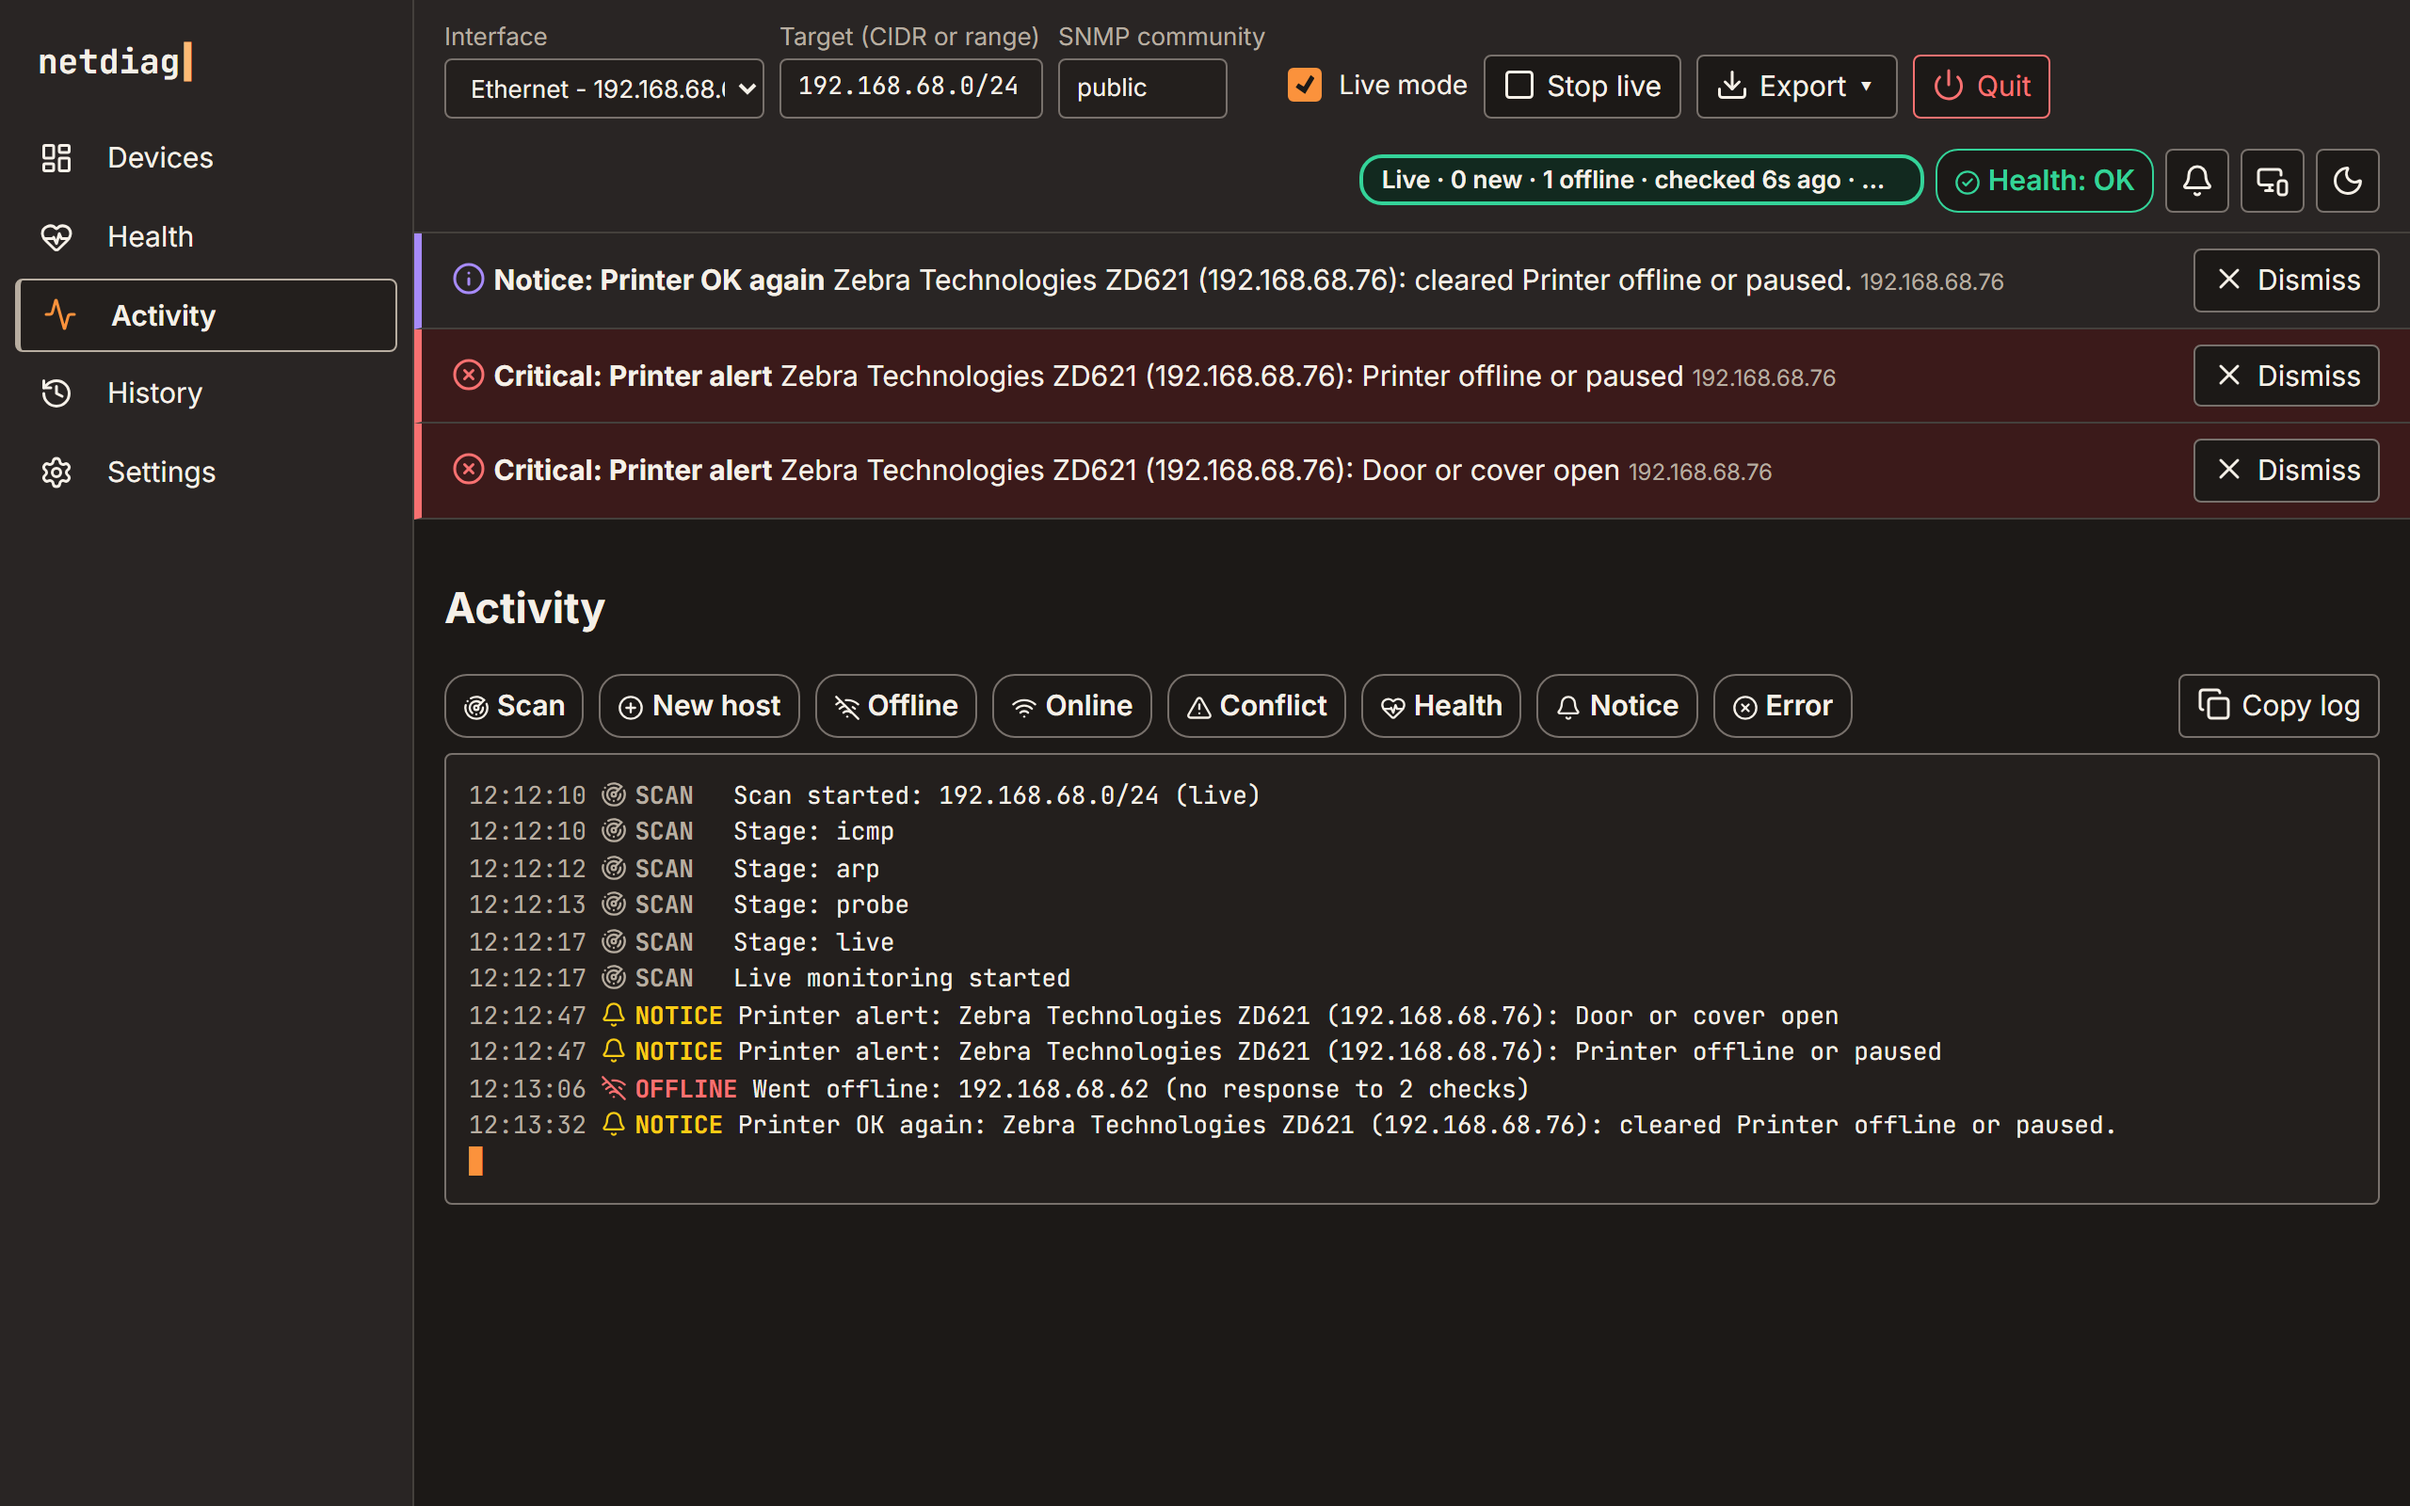
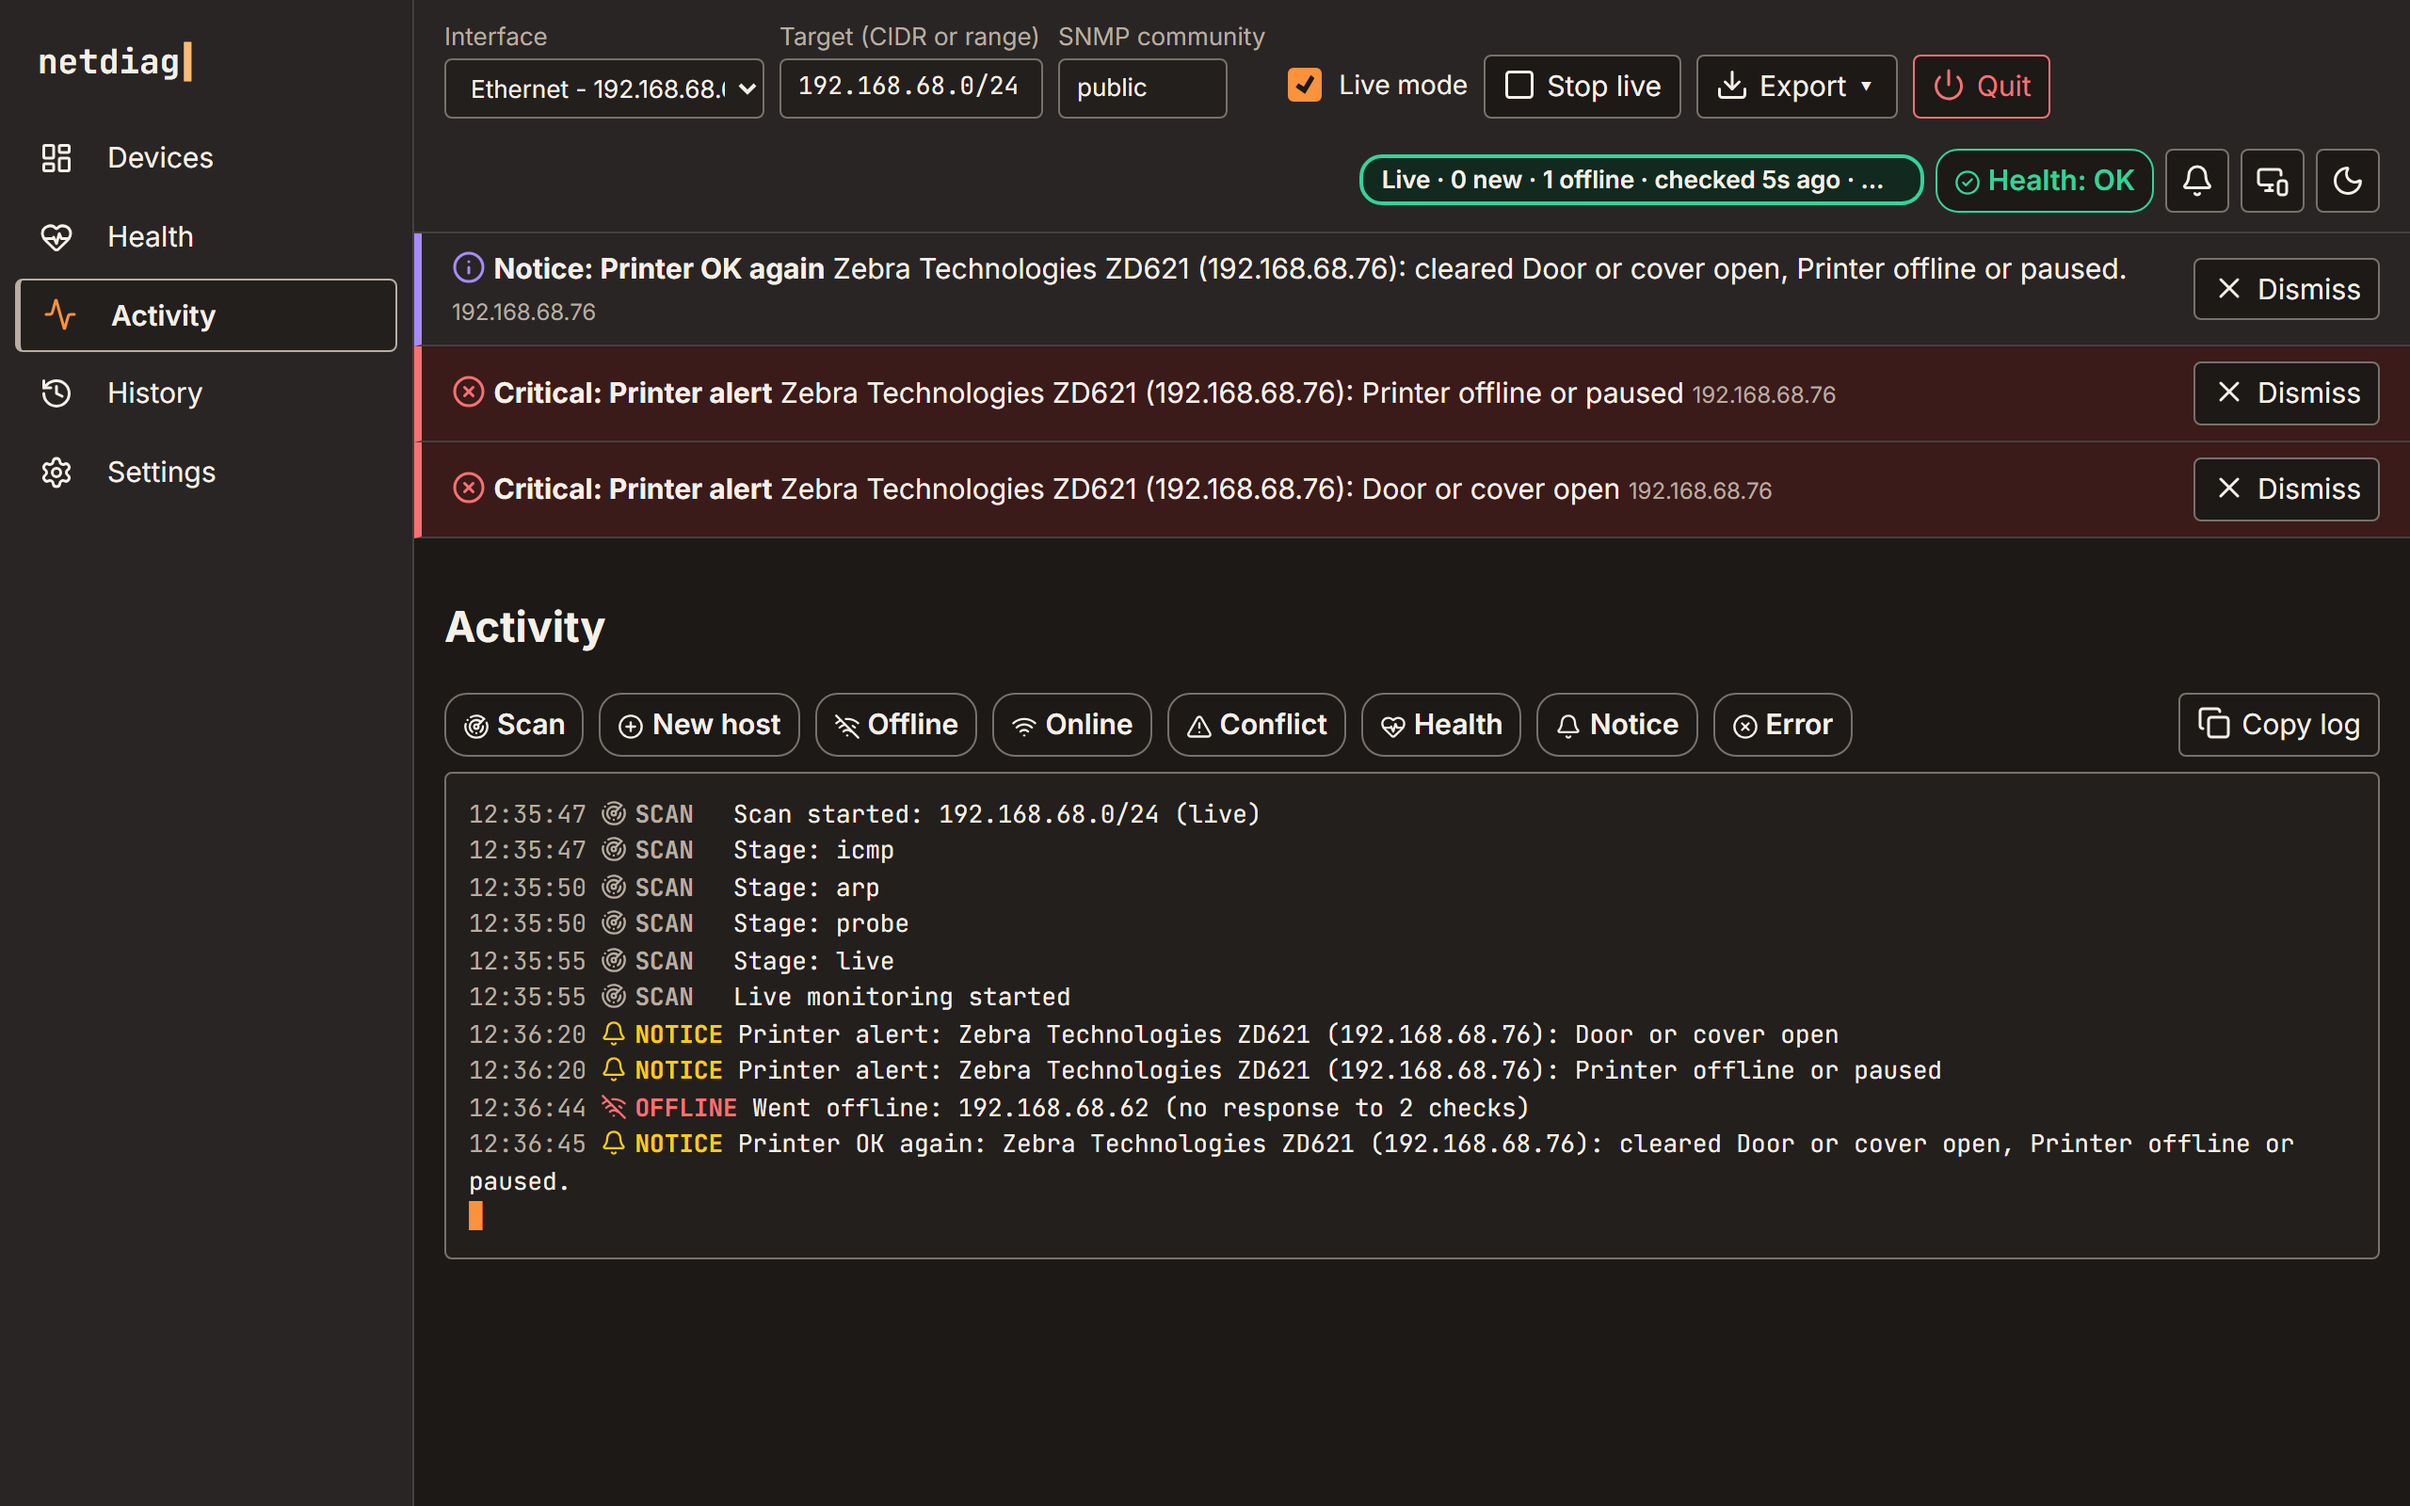
Site: retake real Zebra captures on v0.5.5
The recovery notice now names both cleared alerts ("cleared Door or
cover open, Printer offline or paused."). All four live-monitoring
screenshots come from the same v0.5.5 run, and the timeline and
captions use its timings (alerts 12:36:20, OK again 12:36:45).

Changed region(s): [[0.1562, 0.1562, 1.0, 0.8125], [0.9062, 0.4375, 1.0, 0.5312]]

diff --git a/docs/index.html b/docs/index.html
@@ -95,10 +95,10 @@
       <p class="sub">Turn on <b>Live mode</b> and netdiag keeps watching after the first scan: new devices, devices that drop off, IP conflicts, failing health checks, and above all printers. A jam, an open door or a paused printer shows up within seconds, and so does the fix.</p>
 
       <ol class="timeline" aria-label="A real fault on a Zebra ZD621, as netdiag logged it">
-        <li class="tick"><span class="t">12:12:17</span><b>Live monitoring starts</b><span>The first scan finishes; the Zebra is up and green.</span></li>
+        <li class="tick"><span class="t">12:35:55</span><b>Live monitoring starts</b><span>The first scan finishes; the Zebra is up and green.</span></li>
         <li class="tick warmup"><span class="t">cover opened</span><b>Fast status check</b><span>Every 5 s, one small SNMP request reads device status, printer status and error flags.</span></li>
-        <li class="tick hot"><span class="t">12:12:47</span><b>Two critical alerts</b><span>Door or cover open, and printer offline or paused. Red banners, a beep, a desktop notification.</span></li>
-        <li class="tick ok"><span class="t">12:13:32</span><b>Printer OK again</b><span>Cover closed: netdiag says what cleared, so you know it is safe to print.</span></li>
+        <li class="tick hot"><span class="t">12:36:20</span><b>Two critical alerts</b><span>Door or cover open, and printer offline or paused. Red banners, a beep, a desktop notification.</span></li>
+        <li class="tick ok"><span class="t">12:36:45</span><b>Printer OK again</b><span>Cover closed: netdiag says what cleared, so you know it is safe to print.</span></li>
       </ol>
       <p class="realnote"><svg class="ico" aria-hidden="true"><use href="assets/icons.svg#i-camera"></use></svg>Real hardware, not a mock-up: these screenshots were captured from netdiag watching a Zebra ZD621 label printer while someone opened and closed its cover.</p>
 
@@ -127,7 +127,7 @@
         <div class="copy">
           <p class="reading-label">And when it is fixed</p>
           <h3>Green again, with a note saying why.</h3>
-          <p>As soon as the cover closes and the flags clear, the row turns green and a <b>Printer OK again</b> notice says what cleared. The earlier banners stay until you dismiss them, so nobody misses that something happened.</p>
+          <p>As soon as the cover closes and the flags clear, the row turns green and a <b>Printer OK again</b> notice names everything that cleared, here both the open door and the offline state. The earlier banners stay until you dismiss them, so nobody misses that something happened.</p>
           <ul class="readings"><li class="r-ok">Printer OK again</li><li class="r-info">notice</li></ul>
         </div>
         <figure class="shot"><div class="window"><div class="chrome" aria-hidden="true"><span class="dot"></span><span class="dot"></span><span class="dot"></span><span class="title">Live · Zebra ZD621 · recovered</span></div>
@@ -138,11 +138,11 @@
         <div class="copy">
           <p class="reading-label">The record</p>
           <h3>Every step, timestamped.</h3>
-          <p>The activity log keeps the whole story: the scan, the two alerts, a device elsewhere on the network that dropped off, and the recovery 45 seconds later. Copy it into a ticket or a chat in one click.</p>
-          <ul class="readings"><li>12:12:47 alert</li><li class="r-ok">12:13:32 OK again</li></ul>
+          <p>The activity log keeps the whole story: the scan, the two alerts, a device elsewhere on the network that dropped off, and the recovery 25 seconds later, naming both alerts that cleared. Copy it into a ticket or a chat in one click.</p>
+          <ul class="readings"><li>12:36:20 alert</li><li class="r-ok">12:36:45 OK again</li></ul>
         </div>
         <figure class="shot"><div class="window"><div class="chrome" aria-hidden="true"><span class="dot"></span><span class="dot"></span><span class="dot"></span><span class="title">Activity</span></div>
-          <button type="button" class="zoom" aria-label="Enlarge screenshot: activity log of the printer fault"><img src="assets/shots/real-zebra-activity.png" width="2560" height="1600" loading="lazy" alt="Activity log from the real run: scan stages, two printer alerts at 12:12:47, a device going offline, and Printer OK again at 12:13:32"></button></div></figure>
+          <button type="button" class="zoom" aria-label="Enlarge screenshot: activity log of the printer fault"><img src="assets/shots/real-zebra-activity.png" width="2560" height="1600" loading="lazy" alt="Activity log from the real run: scan stages, two printer alerts at 12:36:20, a device going offline, and Printer OK again at 12:36:45 naming both cleared alerts"></button></div></figure>
       </div>
     </div>
   </section>
